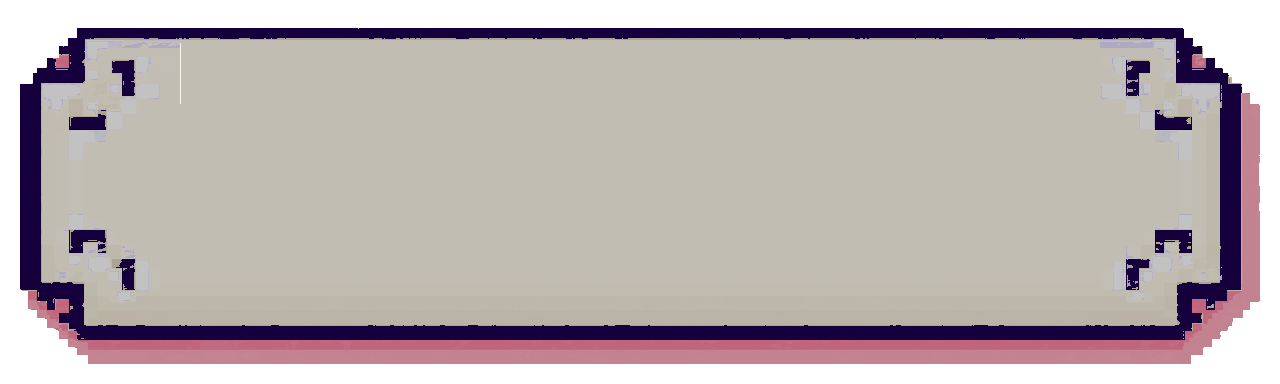
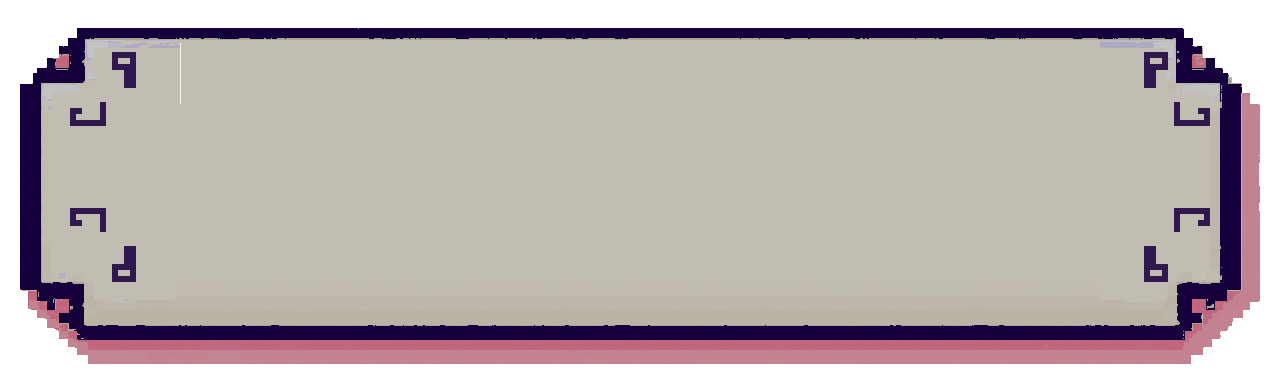
Refine button bracket ornaments from generated artwork

diff --git a/docs/execution/review-handoffs/windows-webview-polish-2026-10-25.md b/docs/execution/review-handoffs/windows-webview-polish-2026-10-25.md
@@ -111,3 +111,9 @@ Human-selected Phase B only. Review against the final artwork-preserving impleme
 
 - At the human's request, abandoned the Select area-specific ornament attempt. Removed area-* sprites and their class/override. All buttons now use the original shared ornaments with only the previously accepted inner top-stripe cleanup. The frame-default straight-line repair, design cleanup, settings, shortcuts and other changes remain intact. No further ornament redesign attempted in this restoration.
 - Frontend production build passed. Native executable rebuilt for the restored baseline.
+
+## Imagegen ornament refinement: 2026-10-28
+
+- Human explicitly requested imagegen refinement of the shared tiny angular bracket ornaments. Used the built-in image_gen tool with secondary-normal.png as the edit target; transparent output requested. Prompt: refine only the four corner angular bracket flourishes, mirror symmetry, crisp intentional pixels, no smudges/random white specks; preserve stepped purple silhouette, cream interior and pink shadow; no text/icons or new design.
+- The generated full sprite changed canvas/proportions, so it was not substituted wholesale. Integrated only the two generated ornamental motifs, sampled to integral 4x6/6x4 grids and reflected into four corners of each of the five existing secondary states. Original complete alpha channel retained; the connected outer purple rim is preserved. Only safe interior ornament regions were cleaned. Source generation: artifacts/lab/checks/windows-polish-2026-10-27/ornament-imagegen-source.png; final runtime assets: apps/desktop/public/design/media/assets/buttons/jewel/secondary-{normal,hover,pressed,focus,disabled}.png. Active primary jewel sprites remain their original assets.
+- Browser fixture inspected at actual button sizes in Capture and Appearance; saved ornaments-final.jpg. Frontend production build passed; native executable rebuilt. No structural/product behavior changes or push.
